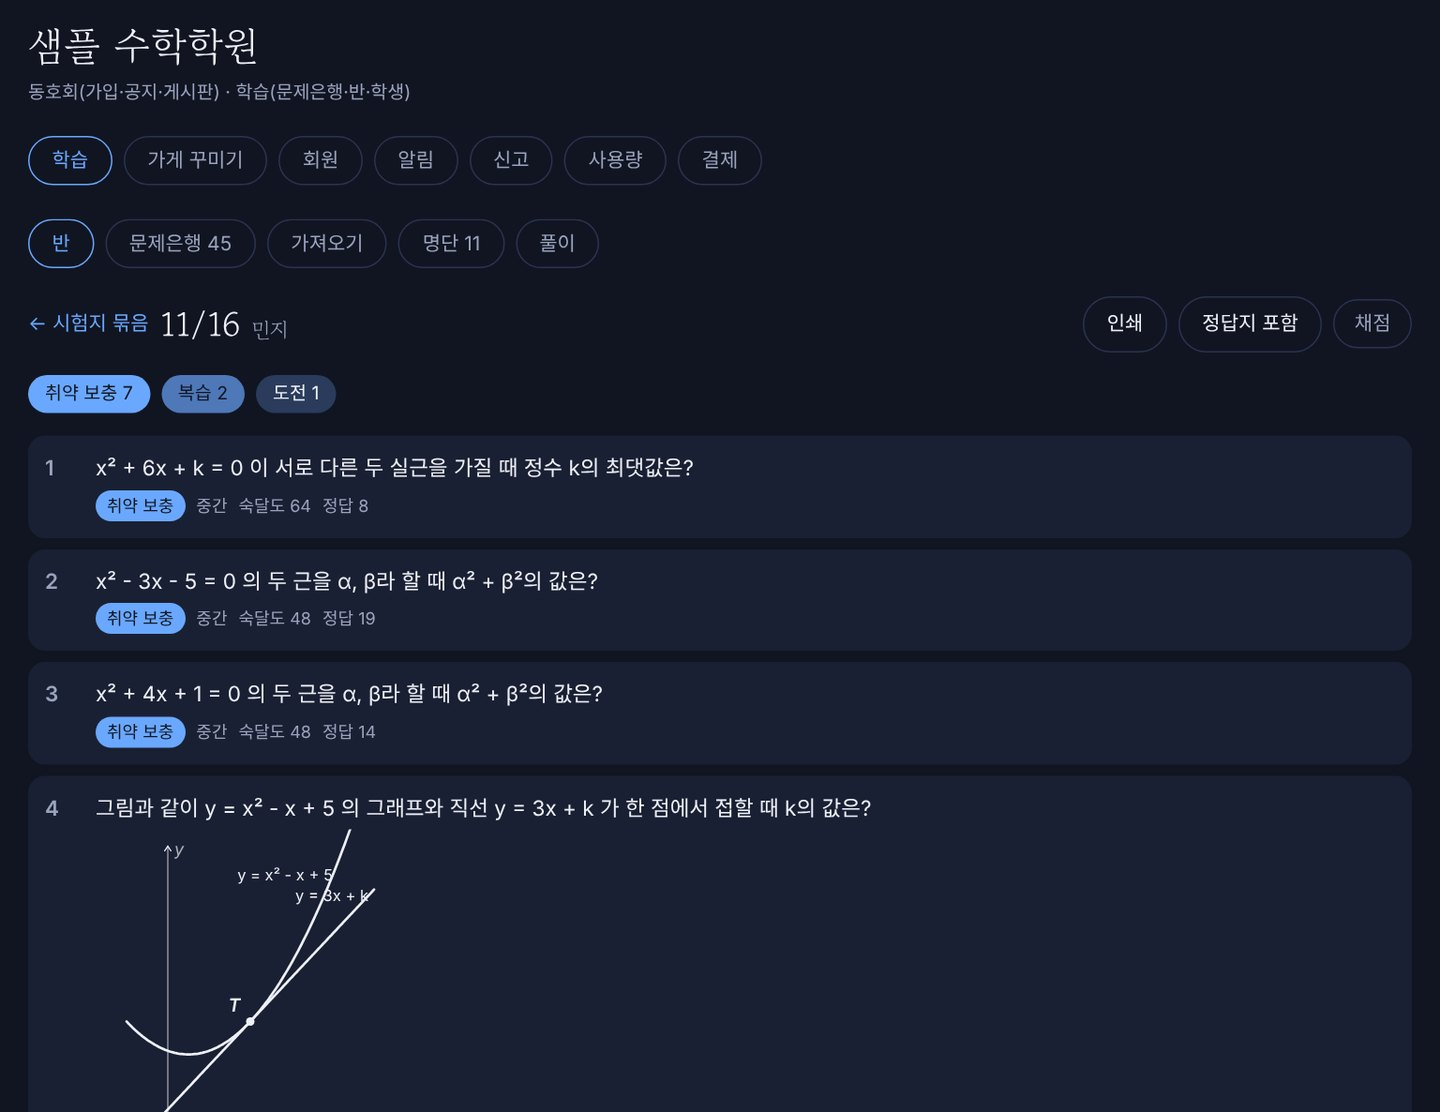
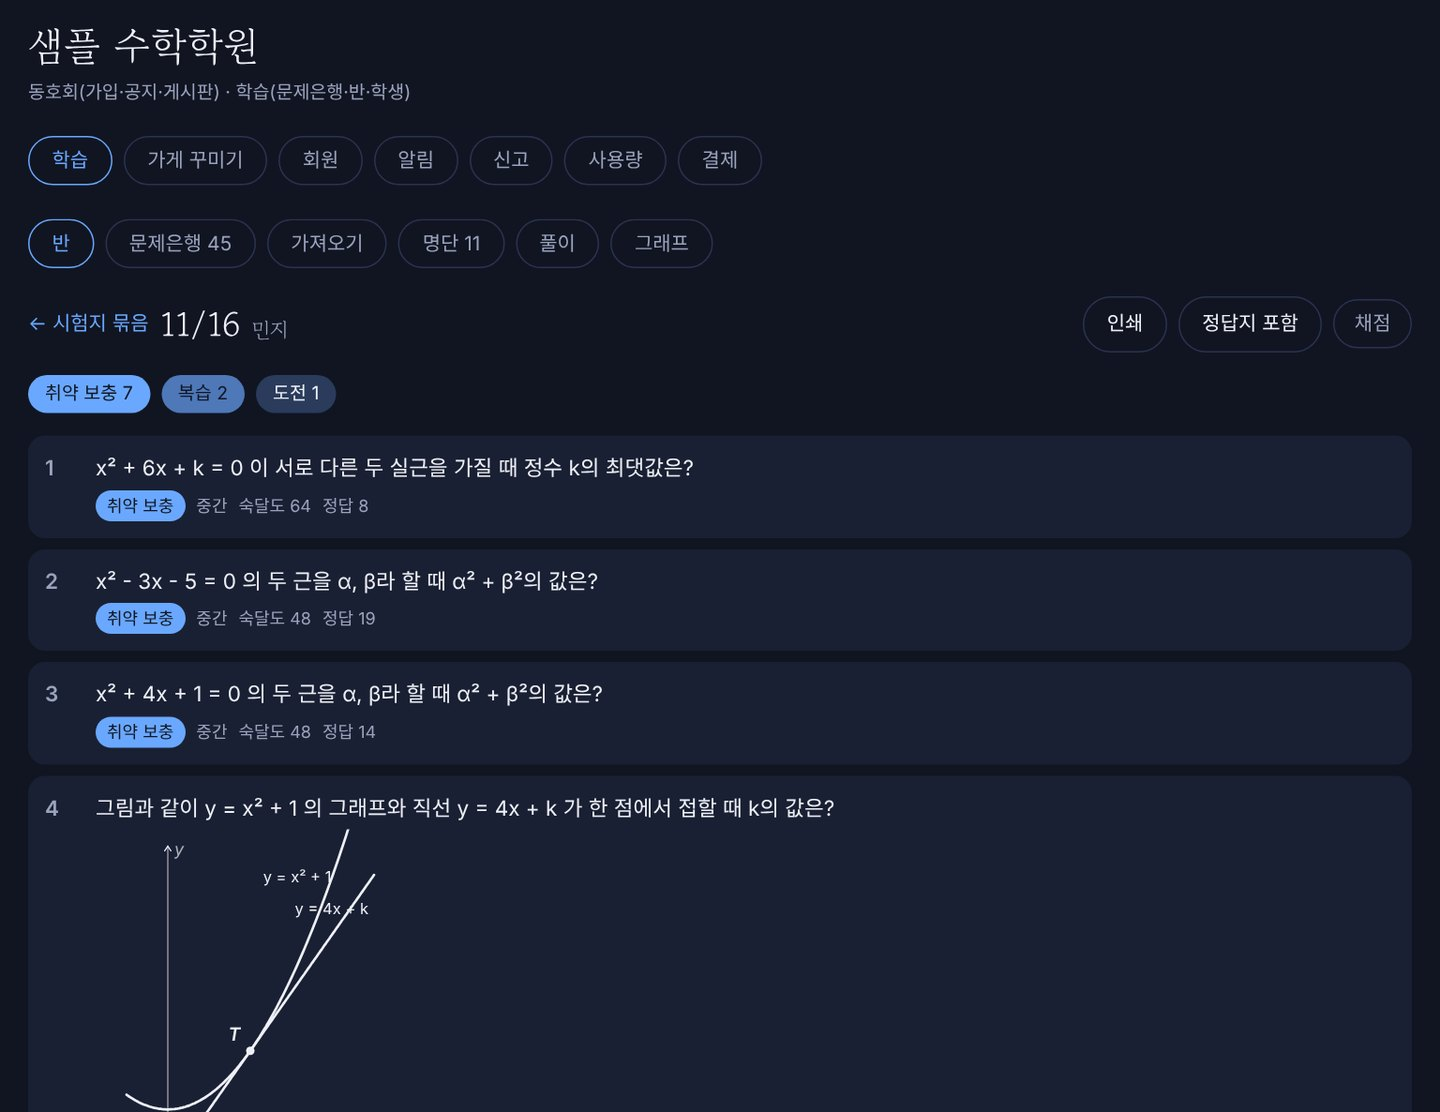
학원 페이지: 그래프 도구 장면 2컷(학생 잇기·찾기, 수업 화면) + 장면 다시 찍음
Claude-Session: https://claude.ai/code/session_01R73CvMWd97nVvW4pruwAtw

diff --git a/demo/academy.html b/demo/academy.html
@@ -150,6 +150,7 @@ const GROUPS = [
       ["solve-2", "힌트 한 단계씩", "원장님이 공개 방식을 정함(바로·한 번 틀린 뒤·강사 허용)"],
       ["solve-3", "틀리면 한 번 더", "남은 기회 표시"],
       ["solve-4", "해설 단계", "다 푼 뒤 단계별로, 숫자는 눌러야 보임"],
+      ["solve-5", "그래프 도구", "확대·이동, 두 점 잇기 → 기울기·식, 교점·꼭짓점 찾기(다 푼 뒤)"],
     ]},
   ]},
   { title: "다음 단계 — 수업과 학부모까지", modules: [
@@ -168,6 +169,7 @@ const GROUPS = [
     { id: "manage", plan: "모든 요금제", title: "반 · 학생 관리 · 설정", line: "명단은 붙여넣기 한 번, 학생 계정·전화번호 받지 않음", wide: true, scenes: [
       ["manage-1", "명단 · 입장 코드", "\"이름, 반\" 붙여넣기 → 반 생성, 학생마다 코드"],
       ["manage-2", "반 → 학생 프로필", "평균 숙달도·변화·가장 약한 개념·질문 수"],
+      ["manage-4", "수업 화면 그래프", "식 입력·점 잇기·교점 찾기, 화면에 띄워 판서 대신"],
       ["manage-3", "힌트 · 해설 공개 설정", "학원마다 다르게"],
     ]},
   ]},
